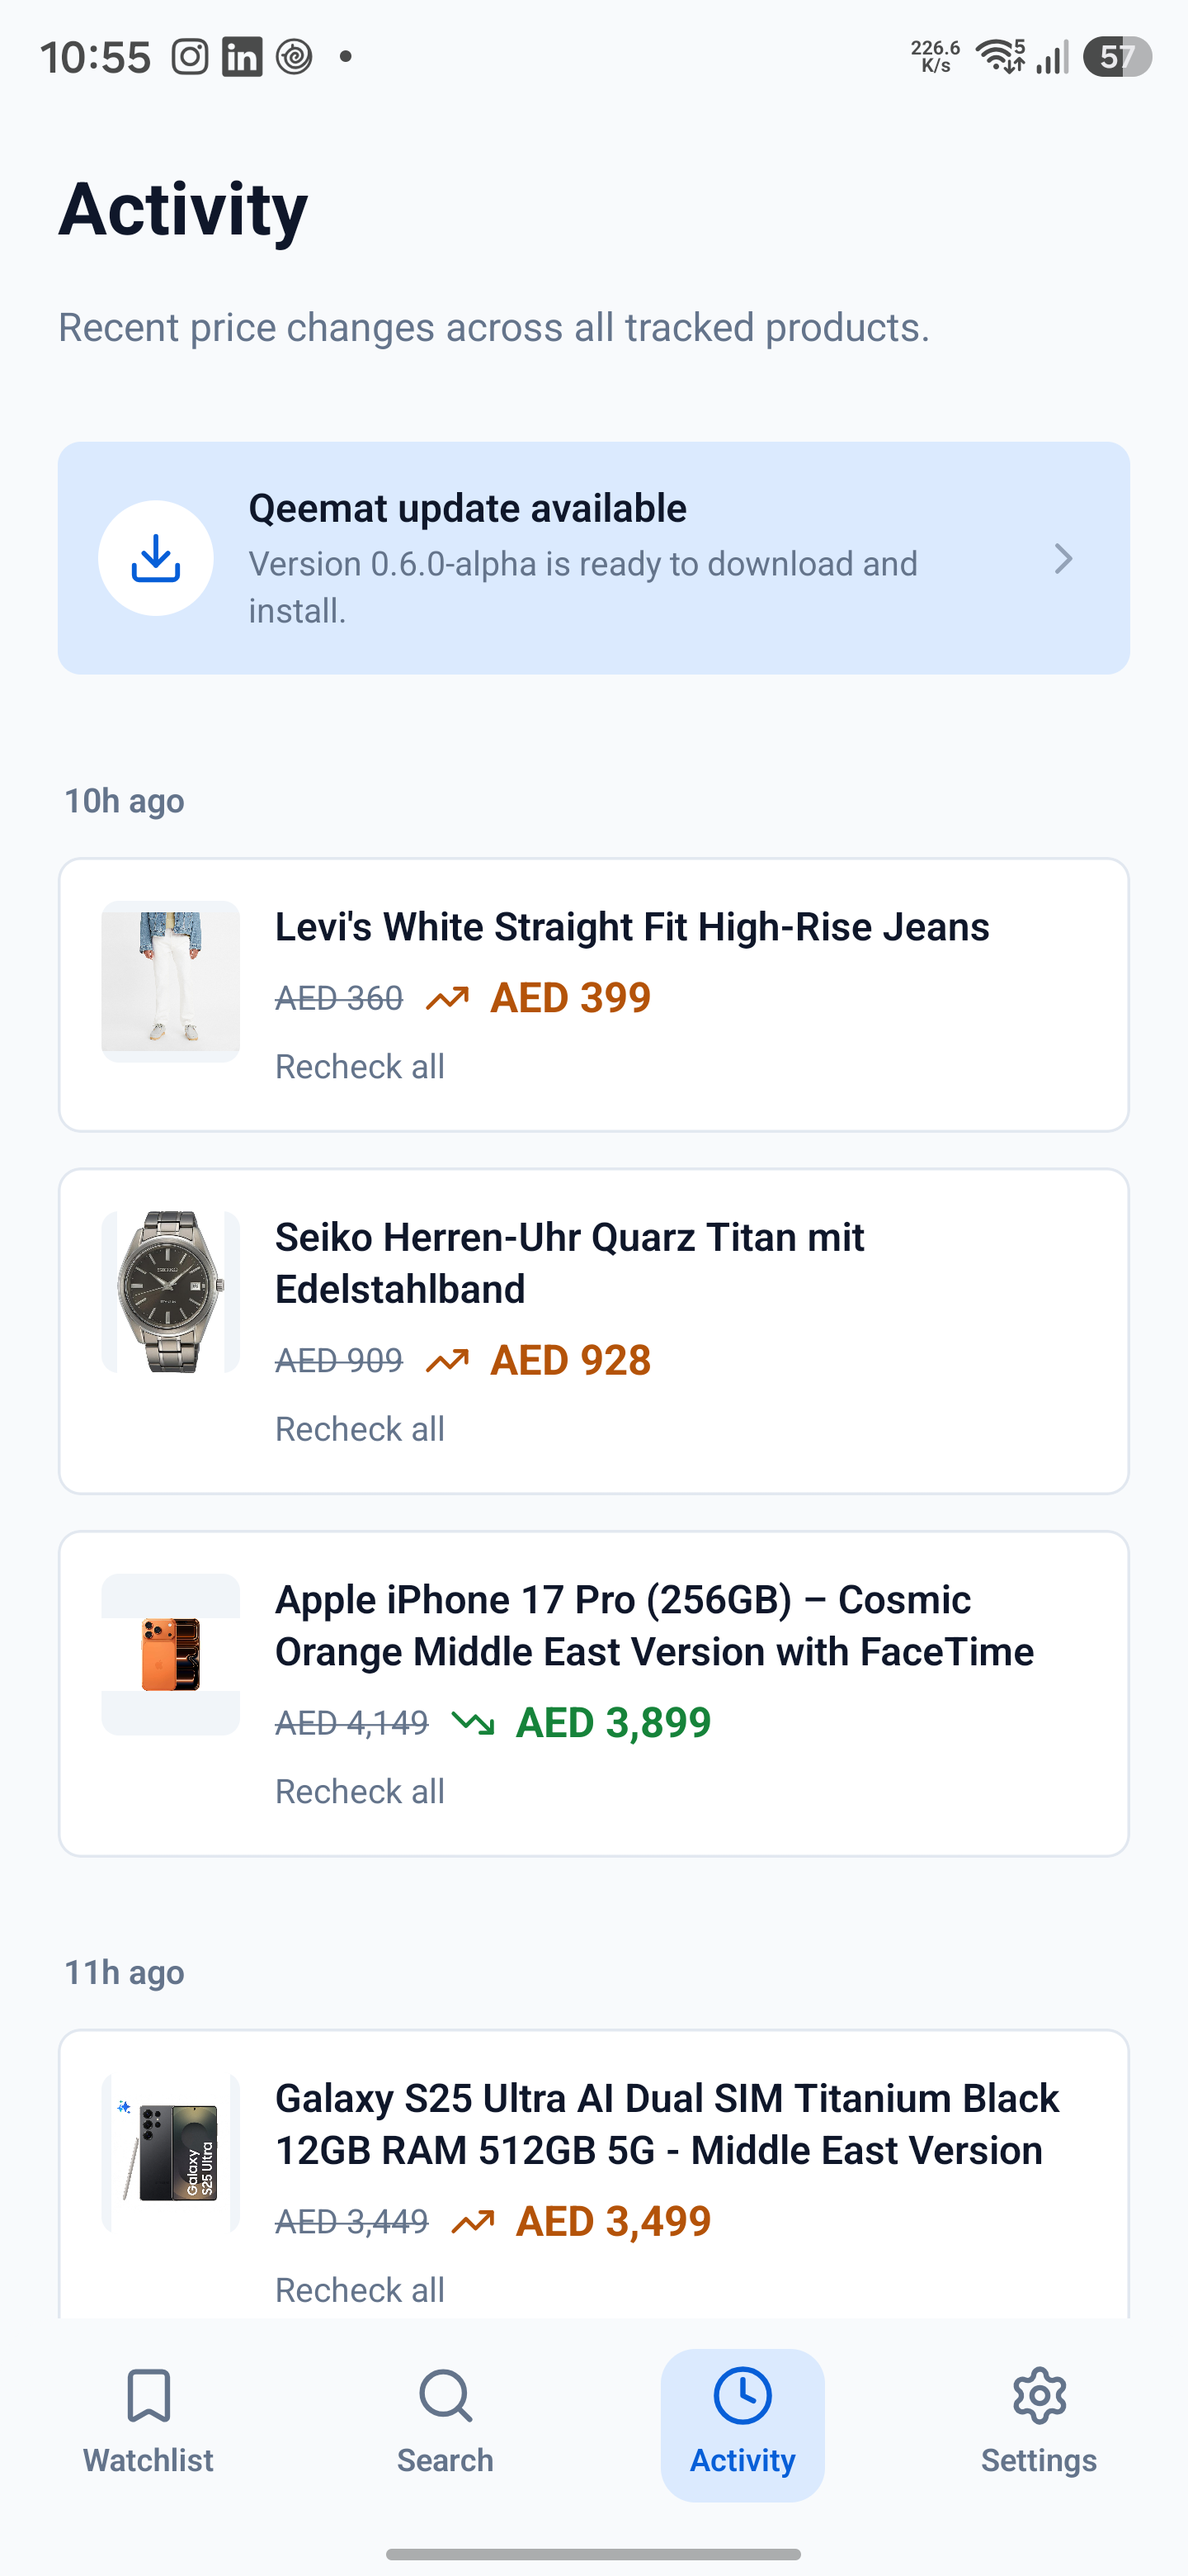
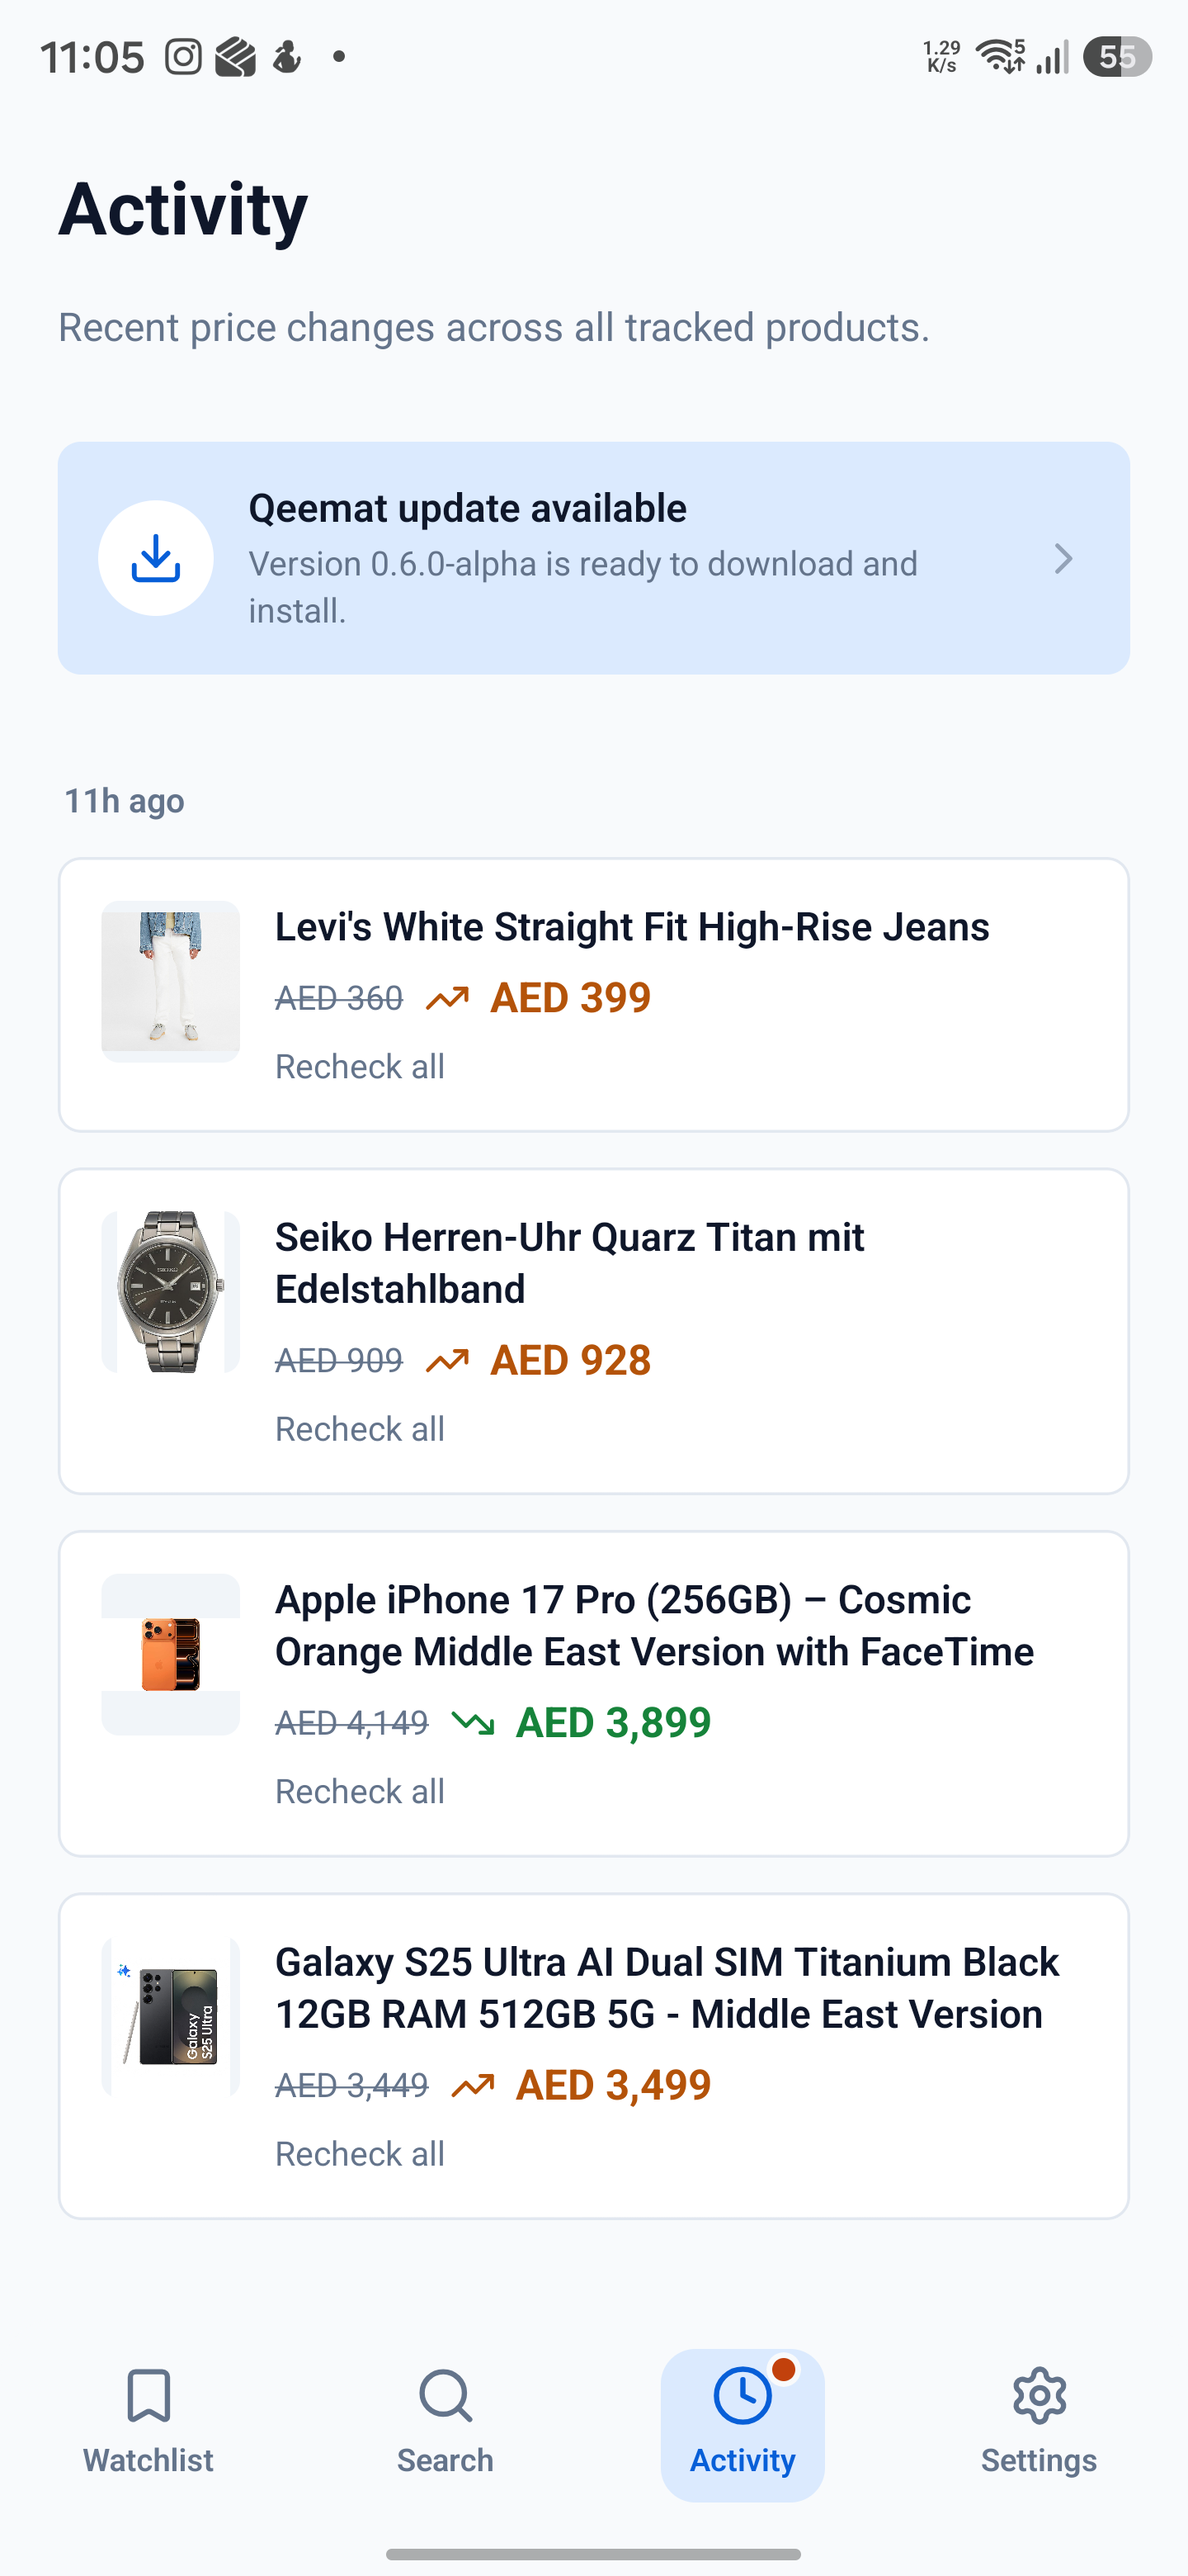
docs: refresh the pending-update badge evidence (#83)

diff --git a/docs/in-app-update.md b/docs/in-app-update.md
@@ -6,7 +6,7 @@ Qeemat can download and install a newer GitHub release without leaving the app. 
 
 1. On launch Qeemat asks the GitHub releases API for a newer version. For the chosen release it selects an APK asset, preferring `arm64-v8a`, then a universal build, then any APK.
 2. If a newer version exists, an **update popup** opens over the app: the version, **Download and install**, **Release notes** and a close button. It opens once per release; closing it remembers that version.
-3. Closing the popup adds a red badge to the Watchlist bell. Opening Activity clears the badge, and Activity keeps a pinned **Qeemat update available** item that opens the popup again. Both the popup and the pinned item disappear once a newer version is no longer offered (for example after installing the update).
+3. Closing the popup adds red badges to the Watchlist bell and the Activity tab. Activity also keeps a pinned **Qeemat update available** item that opens the popup again. The badges stay until the installed version is the latest, when the popup, badges and pinned item all disappear.
 4. Pressing **Download and install** downloads the APK inside the app to the app cache, over HTTPS only. GitHub hosts are allowlisted (`github.com` and `*.githubusercontent.com`); redirects are followed manually and each hop is re-checked.
 5. After the download, Qeemat verifies the byte count against GitHub's asset size and, when the API publishes a digest, the SHA-256 against the downloaded bytes. A mismatch deletes the file and reports an error instead of opening the installer.
 6. If Android has not been allowed to install apps from Qeemat, the popup explains this and opens **Settings → Install unknown apps → Qeemat**; the downloaded file is retained so **Install update** continues without downloading again.
@@ -32,12 +32,12 @@ Both the background update notification and the in-app popup refer to the same i
 Samsung SM-S928B, Android 17 / API 37, 1440 × 3120, connected via wireless debugging. Verification builds use `versionName` `0.5.5-alpha` and `versionCode` 4 so a real `0.6.0-alpha` release is offered while the signing key and version code stay compatible:
 
 - The update popup appeared over the Watchlist for `0.6.0-alpha` with **Download and install** and **Release notes**. [screenshot](assets/app-update-2026-11-14/update-available.png)
-- Closing the popup added a red badge to the bell. [Watchlist](assets/app-update-2026-11-14/update-bell-badge.png)
-- Opening Activity showed the pinned update item; opening Activity also cleared the bell badge on the return to Watchlist. [pinned item](assets/app-update-2026-11-14/activity-pinned-update.png), [badge cleared](assets/app-update-2026-11-14/bell-badge-cleared.png)
+- Closing the popup added red badges to the bell and the Activity tab. [Watchlist](assets/app-update-2026-11-14/update-bell-badge.png)
+- Activity showed the pinned update item; the Activity badge stayed visible while the update was pending. [pinned item](assets/app-update-2026-11-14/activity-pinned-update.png)
 - The pinned item reopened the popup. Downloading from it streamed the 25,621,040-byte release APK with live progress, size and percentage. [screenshot](assets/app-update-2026-11-14/download-progress.png)
 - Windows Android settings: **Install unknown apps → Qeemat → Allow permission** was reached from the popup's permission hand-off. [screenshot](assets/app-update-2026-11-14/install-permission.png)
 - The standard Android install prompt opened; Google Play Protect offered its usual pre-install scan for a sideloaded APK. [screenshot](assets/app-update-2026-11-14/install-prompt.png)
-- After the install, `dumpsys package com.qeemat` reported `versionName=0.6.0-alpha` and a fresh `lastUpdateTime`; Qeemat relaunched on the new version with no popup, no bell badge and no pinned Activity item.
+- After the install, `dumpsys package com.qeemat` reported `versionName=0.6.0-alpha` and a fresh `lastUpdateTime`; Qeemat relaunched on the new version with no popup, no bell or Activity badges and no pinned Activity item. [screenshot](assets/app-update-2026-11-14/badges-after-update.png)
 
 The download's SHA-256 digest matched GitHub's published `sha256:ff8f90db…`, and the same debug signing certificate as the installed build let Android apply the update. Automated coverage: `src/domain/__tests__/updates.test.ts`, `src/domain/__tests__/appUpdate.test.ts`, `src/domain/__tests__/updatePrompt.test.ts`, `src/components/UpdateNotice.test.tsx`.
 
@@ -45,6 +45,6 @@ The download's SHA-256 digest matched GitHub's published `sha256:ff8f90db…`, a
 
 - The download runs while Qeemat's process is alive; there is no foreground service and no resume after the process dies. If the app is killed, pressing the action again downloads the APK again.
 - Closing the popup during a download cancels it; completed downloads are not persisted across app restarts.
-- A dismissed release stays dismissed until the next newer release; the bell badge and pinned item keep the update reachable in the meantime.
+- A dismissed release stays dismissed until the update is installed; the bell and Activity badges and the pinned item keep the update reachable in the meantime.
 - Play Protect or device-vendor install screens may add their own prompts for sideloaded APKs; Qeemat cannot bypass them and should not try to.
 - The GitHub release must include an APK asset; releases without one are ignored by the update check, as before.

diff --git a/docs/current-state.md b/docs/current-state.md
@@ -98,7 +98,7 @@ No price-change activity event or notification is created for an OOS result with
 
 ### App updates
 
-- On Android, the app checks published GitHub releases once when it opens. When a newer version with an APK exists it shows an update popup over the app; closing the popup badges the Watchlist bell and leaves a pinned update item in Activity, both of which reopen the popup and disappear once the app is updated. A separate WorkManager job checks approximately every 48 hours and posts one notification per newer release on the App updates notification channel. Android notification permission and system background restrictions apply. Alpha/prerelease builds can see prereleases; stable builds are offered stable releases. The popup offers **Download and install**: Qeemat downloads the release APK itself over HTTPS, checks its size and (when GitHub publishes one) its SHA-256 digest, then opens the standard Android install prompt. Android requires the user to allow installs from Qeemat the first time; if that is missing the popup explains it and opens the relevant Settings screen. The GitHub release page remains linked as the release notes and as the fallback when the download fails. Offline or failed checks leave the app usable and retry on the next launch. Release tags must use a version such as `v0.5.5-alpha`, and the Android `versionName` must be updated for each release. Details and the device verification are in [the in-app update notes](in-app-update.md).
+- On Android, the app checks published GitHub releases once when it opens. When a newer version with an APK exists it shows an update popup over the app; closing the popup adds red badges to the Watchlist bell and the Activity tab and leaves a pinned update item in Activity, all of which reopen the popup and disappear once the app is updated. A separate WorkManager job checks approximately every 48 hours and posts one notification per newer release on the App updates notification channel. Android notification permission and system background restrictions apply. Alpha/prerelease builds can see prereleases; stable builds are offered stable releases. The popup offers **Download and install**: Qeemat downloads the release APK itself over HTTPS, checks its size and (when GitHub publishes one) its SHA-256 digest, then opens the standard Android install prompt. Android requires the user to allow installs from Qeemat the first time; if that is missing the popup explains it and opens the relevant Settings screen. The GitHub release page remains linked as the release notes and as the fallback when the download fails. Offline or failed checks leave the app usable and retry on the next launch. Release tags must use a version such as `v0.5.5-alpha`, and the Android `versionName` must be updated for each release. Details and the device verification are in [the in-app update notes](in-app-update.md).
 
 ## Storage and Background Work
 
